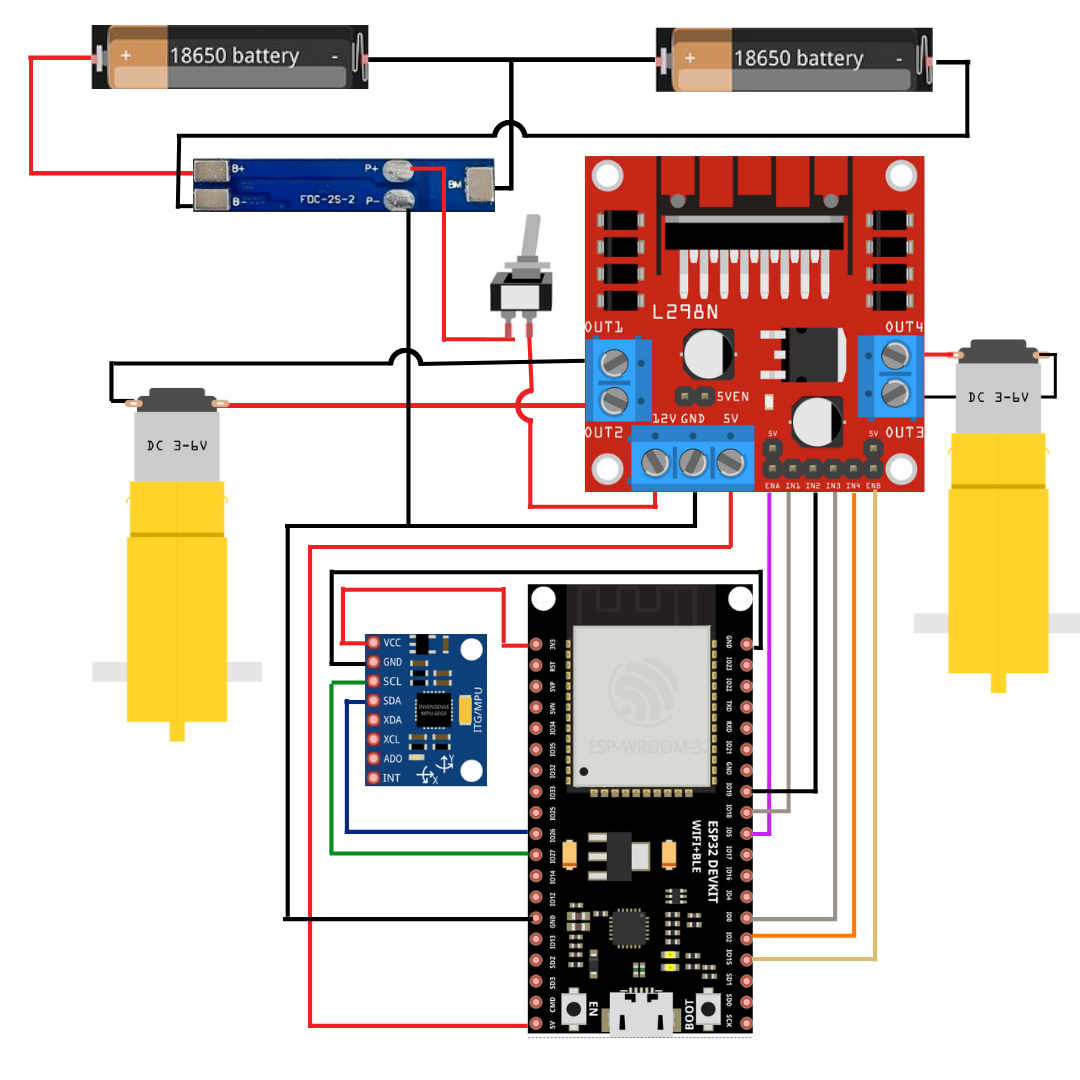
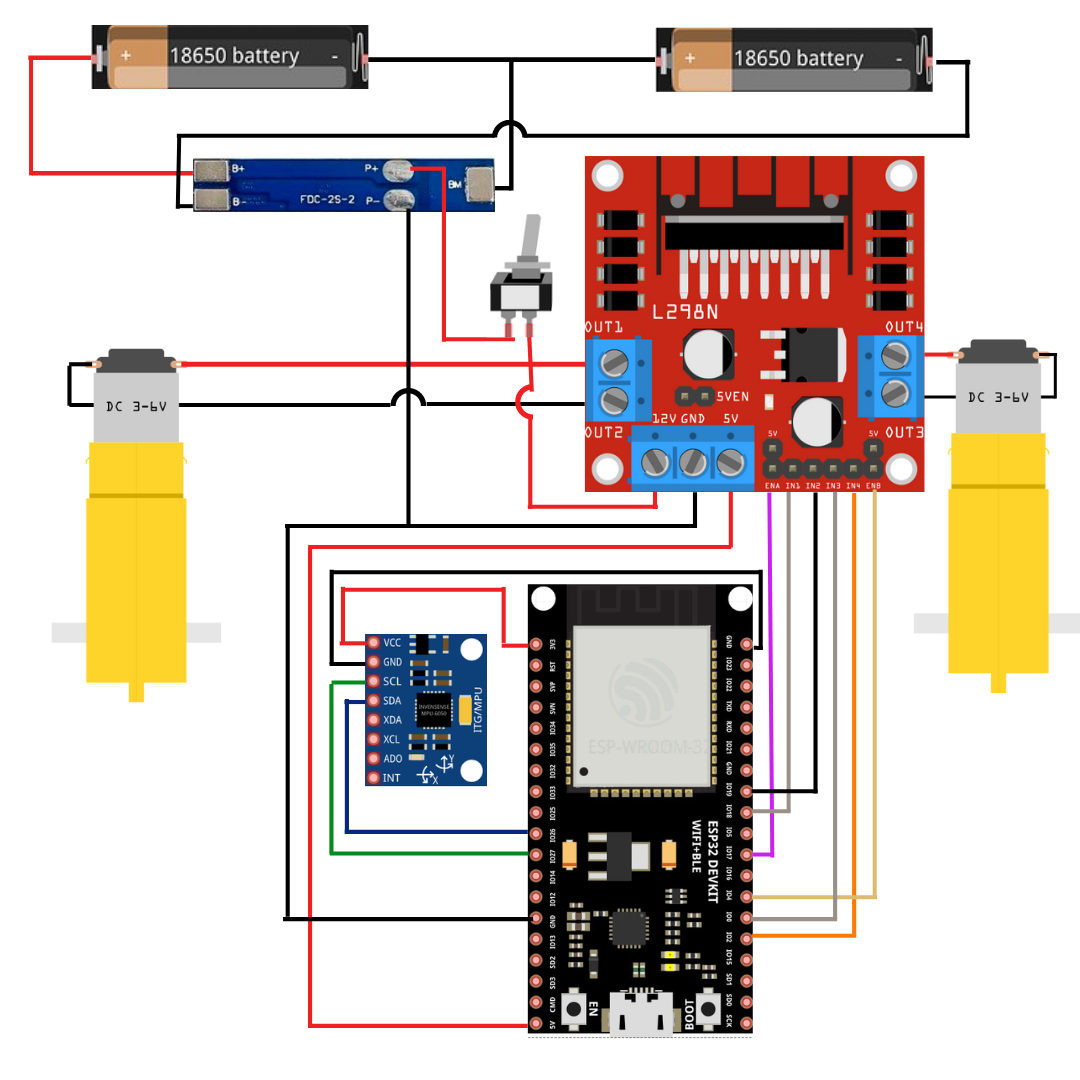
Update README.md
Update README.md

Update README.md

Update README.md

Update electronic diagram.

Update README.md

README. EN

Rename Readme.EN to README_EN.md

Update README_EN.md

Update README_EN.md

Update README_EN.md

Update README_EN.md

Update README_EN.md

Update readme: Add link to english readme.

Update README_EN.md

Update README_EN.md

Update README.md

Update README_EN.md

Update README_EN.md

Update README.md

Update README.md

Update README_EN.md

Update README.md

Update README_EN.md

Update README.md

Update README_EN.md

Update README.md

Update README_EN.md

Update README_EN.md

Update README.md

Update README.md

Update README.md

Update README_EN.md

Update README_EN.md

diff --git a/README_EN.md b/README_EN.md
@@ -1,0 +1,315 @@
+# Balancio-Kit
+
+[![license_MIT](https://img.shields.io/github/license/udesa-ai/balancio-kit)](https://github.com/udesa-ai/balancio-kit/blob/main/LICENSE)
+&nbsp;
+[![stars](https://img.shields.io/github/stars/udesa-ai/balancio-kit)](https://github.com/udesa-ai/balancio-kit/stargazers)
+&nbsp;
+[![language_sp](https://img.shields.io/badge/language-english-1081c2)](README_EN.md)
+[![language_en](https://img.shields.io/badge/spanish-a0b0ba)](README.md)
+
+------
+ 
+Ultra-low-cost educational self-balancing robot :robot:, capable of running a neural network to maintain balance and being wirelessly controlled :trackball:.
+
+Developed for educational purposes to teach RL, ML, AI and control theory.
+ 
+
+<p align="center">
+    <img src="resources/Balancio_0.6.jpg" height="200">
+    <img src="resources/0.7a.jpeg" height="200">
+    <img src="resources/balanciov3.jpg" height="200">
+    <img src="resources/balancio_gif.gif" height="200">
+    <img src="resources/Balancio_walle.jpg" height="200">
+    <img src="resources/ensamble.jpg" height="200">
+</p>
+
+
+
+## Models 
+|                     | Stabilty         | Ease of Assembly  | 3D Printing Requirement | 3D Printing time [](#printing-setting)|  3D printing diagram | Image                                 |
+|:-------------------:|:--------------------:|:--------------------:|--------------|:----------------------------------------------------------------------------------------------------------------------------------------------------------------------------------------------------:|:--------------------------------------------------------------------------------------------------------------------------------------:|:--------------------------------------------------:|
+| V 0.7 (Recommended) | :star: :star: :star: | :star: :star: :star: | Yes           | <ul style="list-style-type:none;"> <li>  Batteries 47m </li> <li> Structure 2:36 h </li> </ul>                                                                                                       | <A HREF="Planos%20de%20Impresión%203D/Version%200.7"> 0.7 I3D</A>      | <img src="resources/Balancio_0.71.jpg" width="70"> |
+| V 0.6 AKA:Wall-e    | :star: :star: :star: | :star:               | Yes           | <ul style="list-style-type:none;"> <li> Underside 5:25h </li> <li> Upperside 5:11h </li> <li> Under structure 58m</li> <li>Upper Structure 55m</li> <li> Head 3:19 h </li> </ul> | <A HREF="Planos%20de%20Impresión%203D/Versión%200.6"> 0.6 I3D</A> | <img src="resources/Balancio_0.5.jpg" width="60">  |
+| V 0.5               | :star:               | :star: :star: :star: | Yes           |<ul> <li> Rim 49m </li> <li> Structure 4:42h </li>                                                                                                                                                                            | <A HREF="Planos%20de%20Impresión%203D/versión%200.5"> 0.5 I3D</A> | <img src="resources/balanciov3.jpg" width="60">    |
+    
+### Printing setting
+
+- Nozzle Thickness : 0.4 mm
+- Layer Height : 0.3 mm 
+- Perimeter: 3 
+- Top and Bottom Solid Layer:  3 
+- Infill: 20%
+
+## Assembly :wrench:
+
+The Balancio-Kit has the following components:
+- Structure (3D printed or custom made) 
+- Node MCU ESP32 microcontroller
+- IMU MPU 6050
+- 2 x 6v geared motors
+- L298N H-Bridge
+- 2 x 18650 batteries with corresponding battery holder
+- BMS FCD-2S-2
+- Switch 
+
+
+<p align="center">
+    <img src="resources/Balancio_plano.png" width="650">
+</p>
+
+## Wiring Diagram
+<p align="center">
+    <img src="resources/Plano_1.2.png" width="730">
+</p>    
+    
+## Mechanical Assembly
+
+1. 3D print the respective [model](#models).
+1. Fit parts in their final position.
+1. Hold the motors in place with seals and/or glue. 
+1. Connect the components following the [wiring diagram](#electrical-diagram). 
+
+
+     
+## Installation :floppy_disk:
+ 
+First, the repository must be cloned. This can be done either by downloading the
+as a .ZIP, or by running `git clone https://github.com/UDESA-AI/balancio-kit.git` in console.
+
+The installation has 3 main modules: Microcontroller, Simulation and Application.
+These are fundamental for the complete functioning of the project, but the installation 
+of each of them can be done in different order.
+  
+  
+### Microcontroller
+
+<details open>
+<summary>Installing the IDE</summary> 
+To program and compile the ESP32 NodeMCU we will use the Arduino IDE 2 . To do this 
+must be installed by following the steps specified in the following link: https://www.arduino.cc/en/software .
+
+</details> 
+<details open>
+<summary>Microcontroller Setting</summary> 
+Once the IDE is installed, the microcontroller we are going to use must be enabled.
+To do this, the following steps must be followed:
+     
+1. In the IDE, go to 'File' → 'Preferences'.
+    
+2. In the "Additional Boards Manager URLs" field, add the following: https://dl.espressif.com/dl/package_esp32_index.json. (Then click 'OK').
+3. Go to 'Tools' → 'Board: ' → 'Boards Manager...'. 
+    
+4. Search for "esp32", and install "esp32 by Espressif Systems" by pressing the 'Install' button.
+    
+5. Indicate the IDE that we are going to use an esp32. Go to 'Tools' → 'Board:' → 'ESP32 Arduino' → 'NodeMCU-32S'.
+    
+6. In 'Tools' → 'Port', select the port corresponding to where the microcontroller is connected.
+
+</details> 
+
+<details open>
+<summary>Arduino Libraries</summary> 
+We will then proceed to install the arduino libraries we are going to use:
+    
+   
+- For that go to 'Sketch' → 'Include Library' → 'Manage Libraries...'.
+    
+- Search for and install the following libraries, specifying the corresponding version:
+    - MPU6050 by Electronic Cats (version 0.5.0)
+    - PS3 Controller Host by Jeffrey van Pernis (version 1.1.0)
+    - EloquentTinyML by Simone Salerno (version 0.0.7)
+    
+</details> 
+<details open>
+<summary>Initial Run</summary> 
+To test the installation, we will run a test example:
+- go to 'File' → 'Examples' → 'WiFi' → 'WiFiScan'.
+- In the generated sketch, press the 'Upload' button :calling:
+- If everything worked correctly, you should see a 'Done uploading' message in the console.
+
+
+Possible errors:
+- If the program fails to be uploaded to the microcontroller, try to hold down the "boot" button present on the board, while uploading. This should only be needed once.
+- On GNU/linux if Arduino fails to open '/dev/ttyusb0'  with error 'permission denied' try changing permissions of device.
+- Serial errors on Arduino IDE 2 migth be solved by pip installing pyserial
+</details> 
+
+### Simulation
+<details open>
+ 
+The simulation runs in Python :snake:, and uses several packages. For ease of installation, we will use [Conda](https://docs.conda.io/en/latest/).
+
+The following steps must be followed:
+
+1. To use and install conda, download miniconda (you can also install [Anaconda](https://docs.anaconda.com/anaconda/install/index.html)), following the steps specified in the following [link](https://docs.conda.io/en/latest/miniconda.html#installing).
+2. We will create a conda environment, where we will host our packages. 
+   This can be done either from the console (in case you have downloaded Miniconda) or from a GUI (in case you have downloaded Anaconda). Respectively:
+    - Miniconda: Execute the following command in the console: `conda env create -f requirements.yml`. Where `requirements.yml` is the [file](https://github.com/UDESA-AI/balancio-kit/blob/RL_1/requirements.yml) found inside the repository and already downloaded.
+    - Anaconda: In the Anaconda GUI: In the environments tab, click on import and specify [file](https://github.com/UDESA-AI/balancio-kit/blob/RL_1/requirements.yml) in file.
+
+<p align="center">
+    <img src="resources/env_anaconda.png" width="500">
+</p>
+
+3. Activate the created environment, called **balance**:
+    - Miniconda: Execute in terminal `conda activate balancio`.
+    - Anaconda: In the environments tab, click on the environment you want to activate.
+4. In the activated environment, execute the file [setup.py](https://github.com/UDESA-AI/balancio-kit/blob/RL_1/simulation/balancio_lib/setup.py):
+    `python setup.py`
+5. Test the installation by running the following [script](https://github.com/UDESA-AI/balancio-kit/blob/RL_1/simulation/pid.py):
+    `python pid.py`
+    </details> 
+
+### Physical Variables of version 0.7
+ 
+#### Structure
+Mass without wheels: 0.244 kg
+
+Position of the centre of mass relative to the axis of the engines and the symmetrical centre of the body: 
+
+
+- x = 1.55 mm
+- y ~= 0 mm
+- z = 31 mm
+
+Inertia without wheels from centre of mass: 
+
+- Ixx = 0.0006945 kg.m²
+- Ixy ~= 0 kg.m²
+- Iyy = 0.0006536 kg.m²
+- Ixz = -0.000013447 kg.m²
+- Iyz ~= 0 kg.m²
+- Izz = 0.0001937 kg.m²
+
+#### Wheel
+Mass of a wheel: 0.029 kg
+
+Position of the centre of mass relative to the axis of the engines and the edge of the grip: 
+- x = 0 mm   
+- y = 15.6 mm 
+- z = 0 mm
+
+
+Inertia of the wheel from the centre of mass:  
+
+- Ixx = 0.000011729 kg.m²
+- Ixy ~= 0 kg.m²
+- Iyy = 0.000021531 kg.m²
+- Ixz ~= 0 kg.m²
+- Iyz ~= 0 kg.m²
+- Izz = 0.000011729 kg.m²
+
+
+### Application
+
+ The application is created in <A HREF="https://appinventor.mit.edu/"> MIT App Inventor </A>.
+
+Simply go to the website and import the .aia en <A HREF="Balancio-kit/app/app.aia"> App Balancio </A>. After that, the application can be used via bluethooth from a mobile phone.
+
+## Calibration
+
+
+These instructions assume knowledge of using the arduino IDE.
+
+<details open>
+<summary> IMU  Calibration </summary>
+1. Open `Balancio-kit/Mcu/Src/imu_calibration/imu_calibration.ino` with the Arduino IDE 2.
+ 
+2. Place the robot with the IMU parallel to the floor and hold it steady.
+
+3. Upload the program to the board and use the serial monitor to get the offsets from the IMU.
+
+4. Modify the gyro offsets in the `balancio-kit/mcu/src/main/config.h` file in:
+```c++
+
+// IMU calibration parameters
+#define X_ACCEL_OFFSET -1775
+#define Y_ACCEL_OFFSET  756
+#define Z_ACCEL_OFFSET  2706
+#define X_GYRO_OFFSET   181
+#define Y_GYRO_OFFSET   77
+#define Z_GYRO_OFFSET   60
+```
+5. For the accelerometers calibration the offsets should be calculated taking into account the gravity only calibrationg the offset when the gravity vector is perpendicular to the direction being calibrated.
+</details>  
+
+<details open>
+<summary>Calibration of the balance angle</summary>
+1. Open `balancio-kit/mcu/src/main/main.ino`.
+
+2. Hold the robot in the equilibrium position.
+
+3. Upload the program to the board and use the serial monitor to obtain the angle offsets.
+
+4. Modify the balance angle in the `balancio-kit/mcu/src/main/config.h` file on the line:
+```c++
+// Angle of (approximate) static equilibrium
+#define STATIC_ANGLE -0.04 // Calibrated point
+```
+ </details>   
+ 
+<details open>
+<summary>Calibrating the PID constants</summary>
+    
+1. Remove the 12v jumper on the driver. 
+
+2. Select PID parameters
+    
+3. modify the PID constants in the `balancio-kit/mcu/src/main/config.h` file on the lines:
+```c++
+// PID Constants for pitch control
+#define KP 2000
+#define KI 22000
+#define KD 20.0
+```   
+
+4. Test the constants, if the jumper was removed you can test even with the cable connected. **Be careful when doing this!
+
+
+---
+</details> 
+     
+Once the robot has been correctly configured, various configuration parameters can be selected in the corresponding file (`config.h`). 
+
+Among them, you can select the type of controller you want to use to stabilize the Balancio.
+
+For example, in case you want to use a PID controller:
+```c++
+// Control algorithm type
+#define CONTROL_ALGO "PID".
+```
+
+In case you want to use a reinforcement learning agent:
+```c++
+// Control algorithm type
+#define CONTROL_ALGO "RL"
+```
+</details> 
+
+---
+## TODO
+
+- [x] initial commit
+- [x] Develop bluetooth application
+- [x] Create RL agent
+- [x] Mechanical design
+- [X] Publish STL of mechanical design
+- [ ] Publish STEP of mechanical design
+- [X] Create electronic diagram
+- [ ] Clarify which data to get from imu calibration.
+
+
+
+    
+## Known  Bugs 
+- [x] Wheel spins on startup
+
+
+
+    
+## Contributions
+ 
+Pull requests are welcome, for major changes, please open a *issue* to discuss the desired changes.
+
+## License
+[MIT](https://choosealicense.com/licenses/mit/)

diff --git a/README.md b/README.md
@@ -1,10 +1,14 @@
 # Balancio-Kit
 
-![license_MIT](https://img.shields.io/github/license/udesa-ai/balancio-kit)
-![stars](https://img.shields.io/github/stars/udesa-ai/balancio-kit)
+[![license_MIT](https://img.shields.io/github/license/udesa-ai/balancio-kit)](https://github.com/udesa-ai/balancio-kit/blob/main/LICENSE)
+&nbsp;
+[![stars](https://img.shields.io/github/stars/udesa-ai/balancio-kit)](https://github.com/udesa-ai/balancio-kit/stargazers)
+&nbsp;
+[![language_en](https://img.shields.io/badge/language-english-a0b0ba)](README_EN.md)
+[![language_sp](https://img.shields.io/badge/spanish-1081c2)](README.md)
 
-## Información
-    
+#### [README in English](README_EN.md)
+----
 Proyecto educativo de un robot :robot: de autobalanceo de ultra bajo costo, capaz de correr una red neuronal para mantener el equilibrio y de ser controlado de manera inalámbrica  :trackball:.
 
 Desarrollado con fines didácticos para enseñar conceptos de RL, ML, AI y control.
@@ -75,9 +79,9 @@ de cada uno de ellos se puede realizar en distinto orden.
 
 <details open>
 <summary>Instalación de la IDE</summary> 
-Para programar y compilar el NodeMCU ESP32 usaremos la IDE de Arduino. Para esto se
+Para programar y compilar el NodeMCU ESP32 usaremos la IDE 2 de Arduino. Para esto se
 debe instalar la misma siguiendo los pasos que se especifican en el siguiente 
-[link](https://www.arduino.cc/en/software).
+[link](https://www.arduino.cc/en/software) .
 </details> 
 <details open>
 <summary>Configuración del Microcrontolador</summary> 
@@ -207,11 +211,12 @@ Estas instrucciones asumen conocimiento del uso de la IDE arduino
 <details open>
 <summary>Calibración del IMU</summary>
 1. Abrir `Balancio-kit/Mcu/Src/imu_calibration/imu_calibration.ino` con el IDE Arduino
+    
 2. Colocar el robot con la IMU paralela al piso y mantenerlo firme
 
 3. Subir el programa a la placa y usar el monitor serial para obtener las compensaciones de la IMU
 
-4. Modificar las compensaciones en el archivo `balancio-kit/mcu/src/main/config.h` en:
+4. Modificar las compensaciones de giróscopo en el archivo `balancio-kit/mcu/src/main/config.h` en:
 ```c++
 // IMU calibration parameters
 #define X_ACCEL_OFFSET -1775
@@ -221,6 +226,7 @@ Estas instrucciones asumen conocimiento del uso de la IDE arduino
 #define Y_GYRO_OFFSET   77
 #define Z_GYRO_OFFSET   60
 ```
+5. Para las compensaciones de Acelerómetro debe ser tenido en cuenta la gravedad, solo midiendo las compensaciones con la gravedad perpendicualar a esa direcci 
 </details>  
 
 <details open>
@@ -286,12 +292,13 @@ En caso de querer utilzar un agente de aprendizaje por refuerzo:
 - [X] Publicar STL del diseño mecánico
 - [ ] Publicar STEP del diseño mecánico
 - [X] Crear diagrama electrónico
+- [ ] Aclarar que datos levantar del imu calibration.
 
 
 
     
 ## Bugs conocidos
-- Wheel spins on startup
+- [x] Wheel spins on startup
 
 
 
